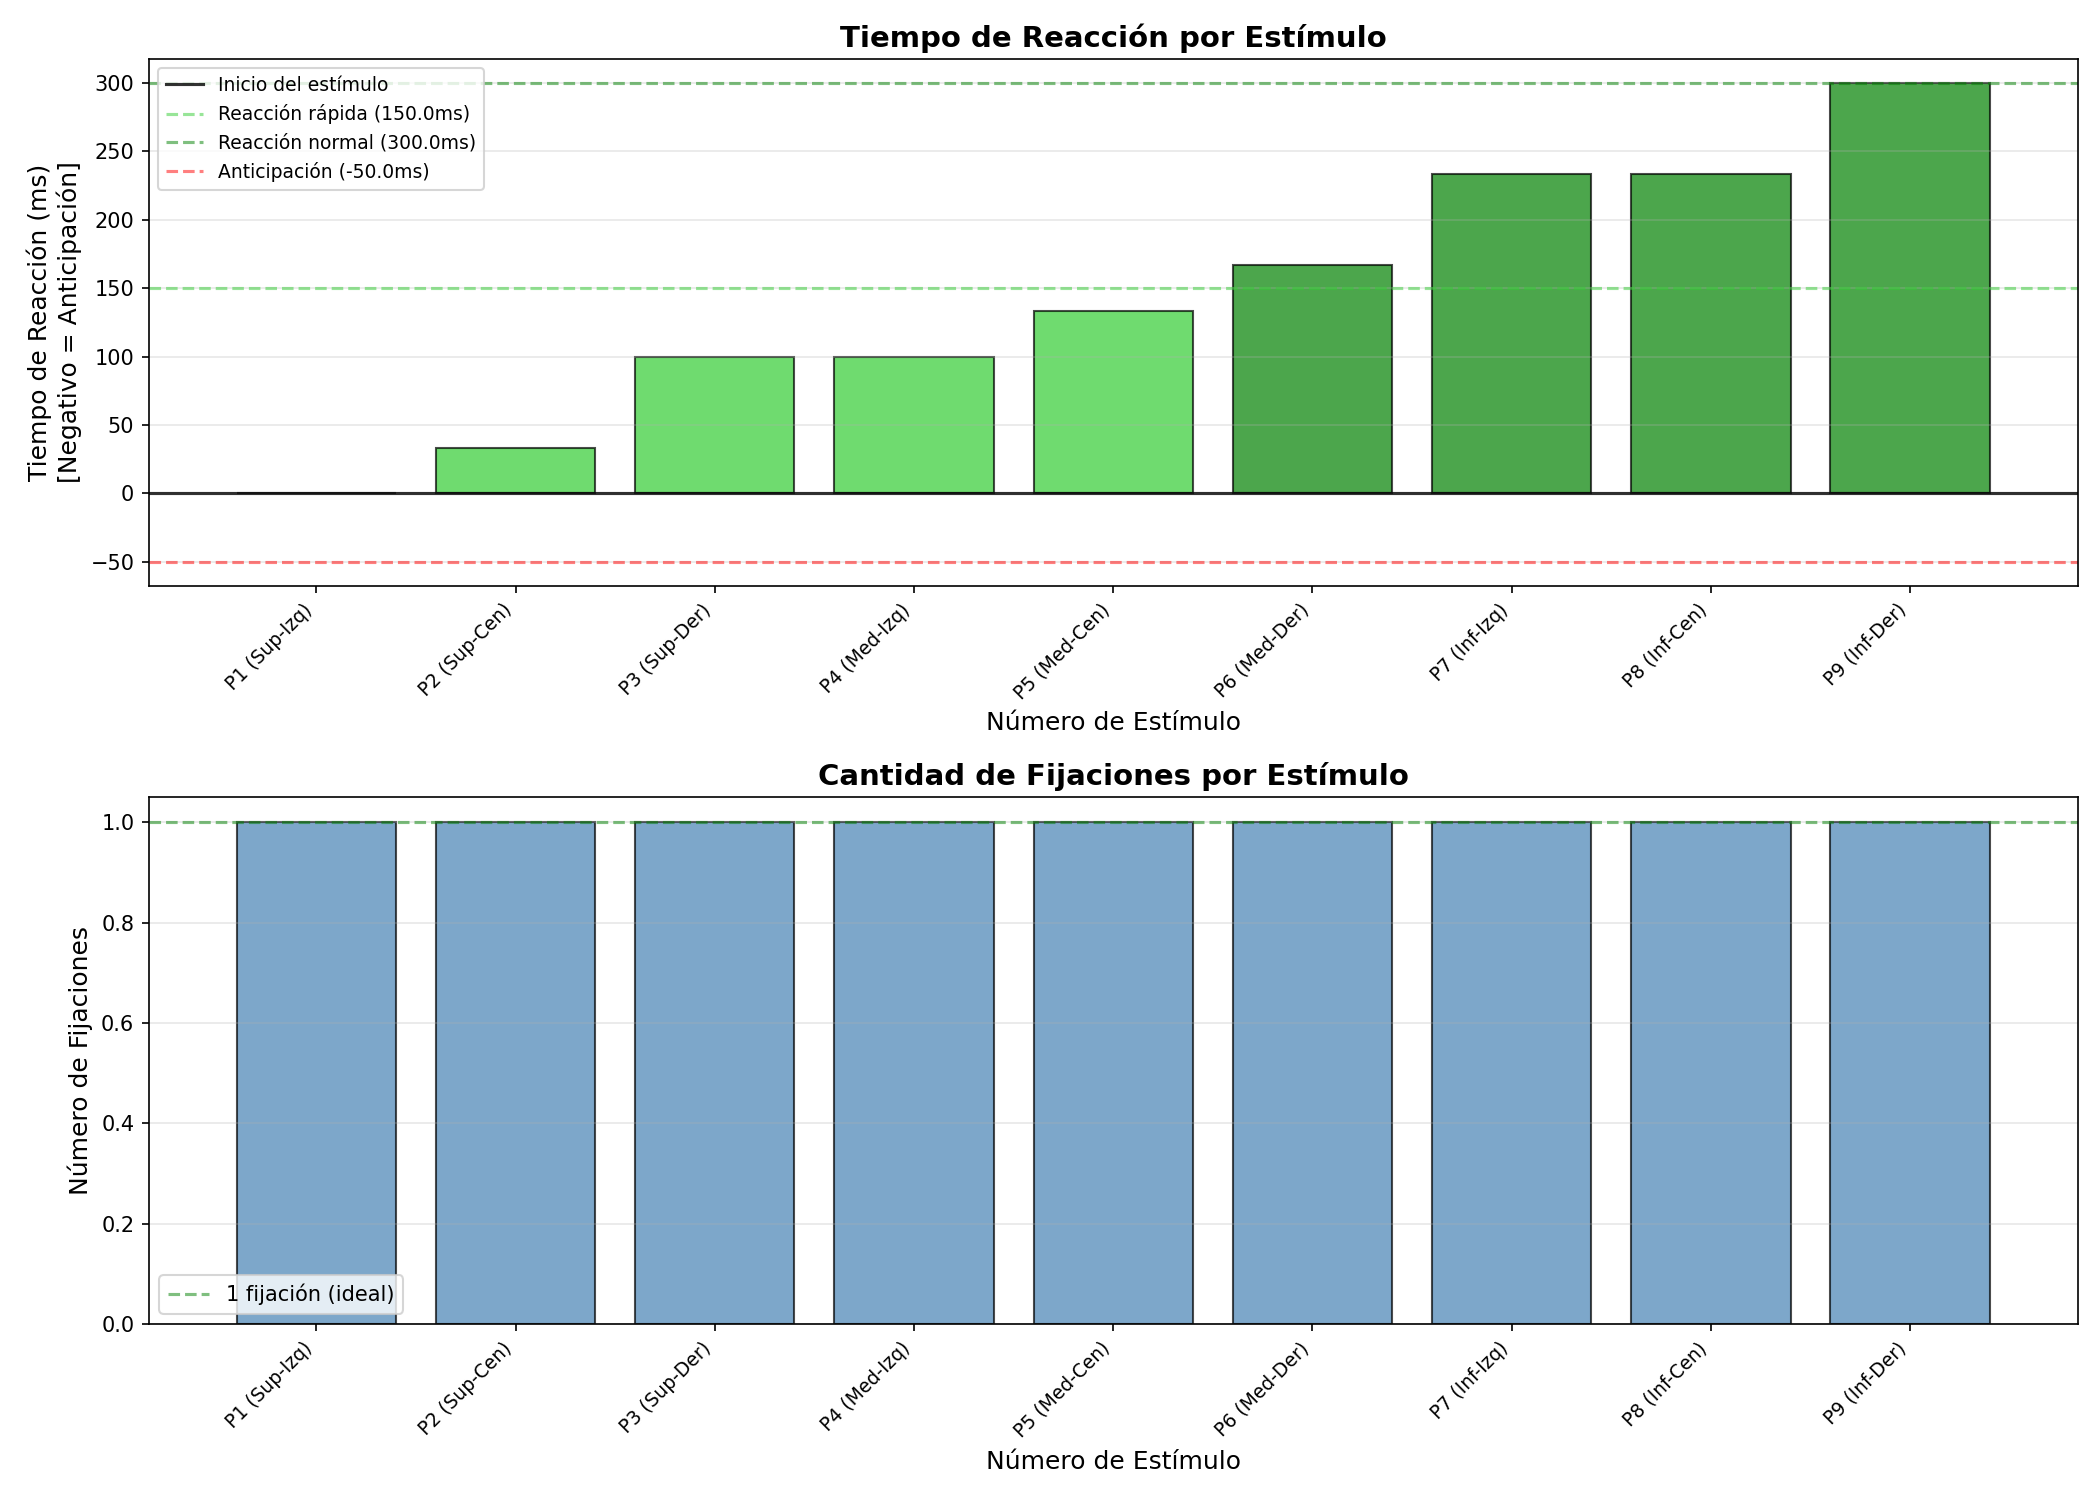
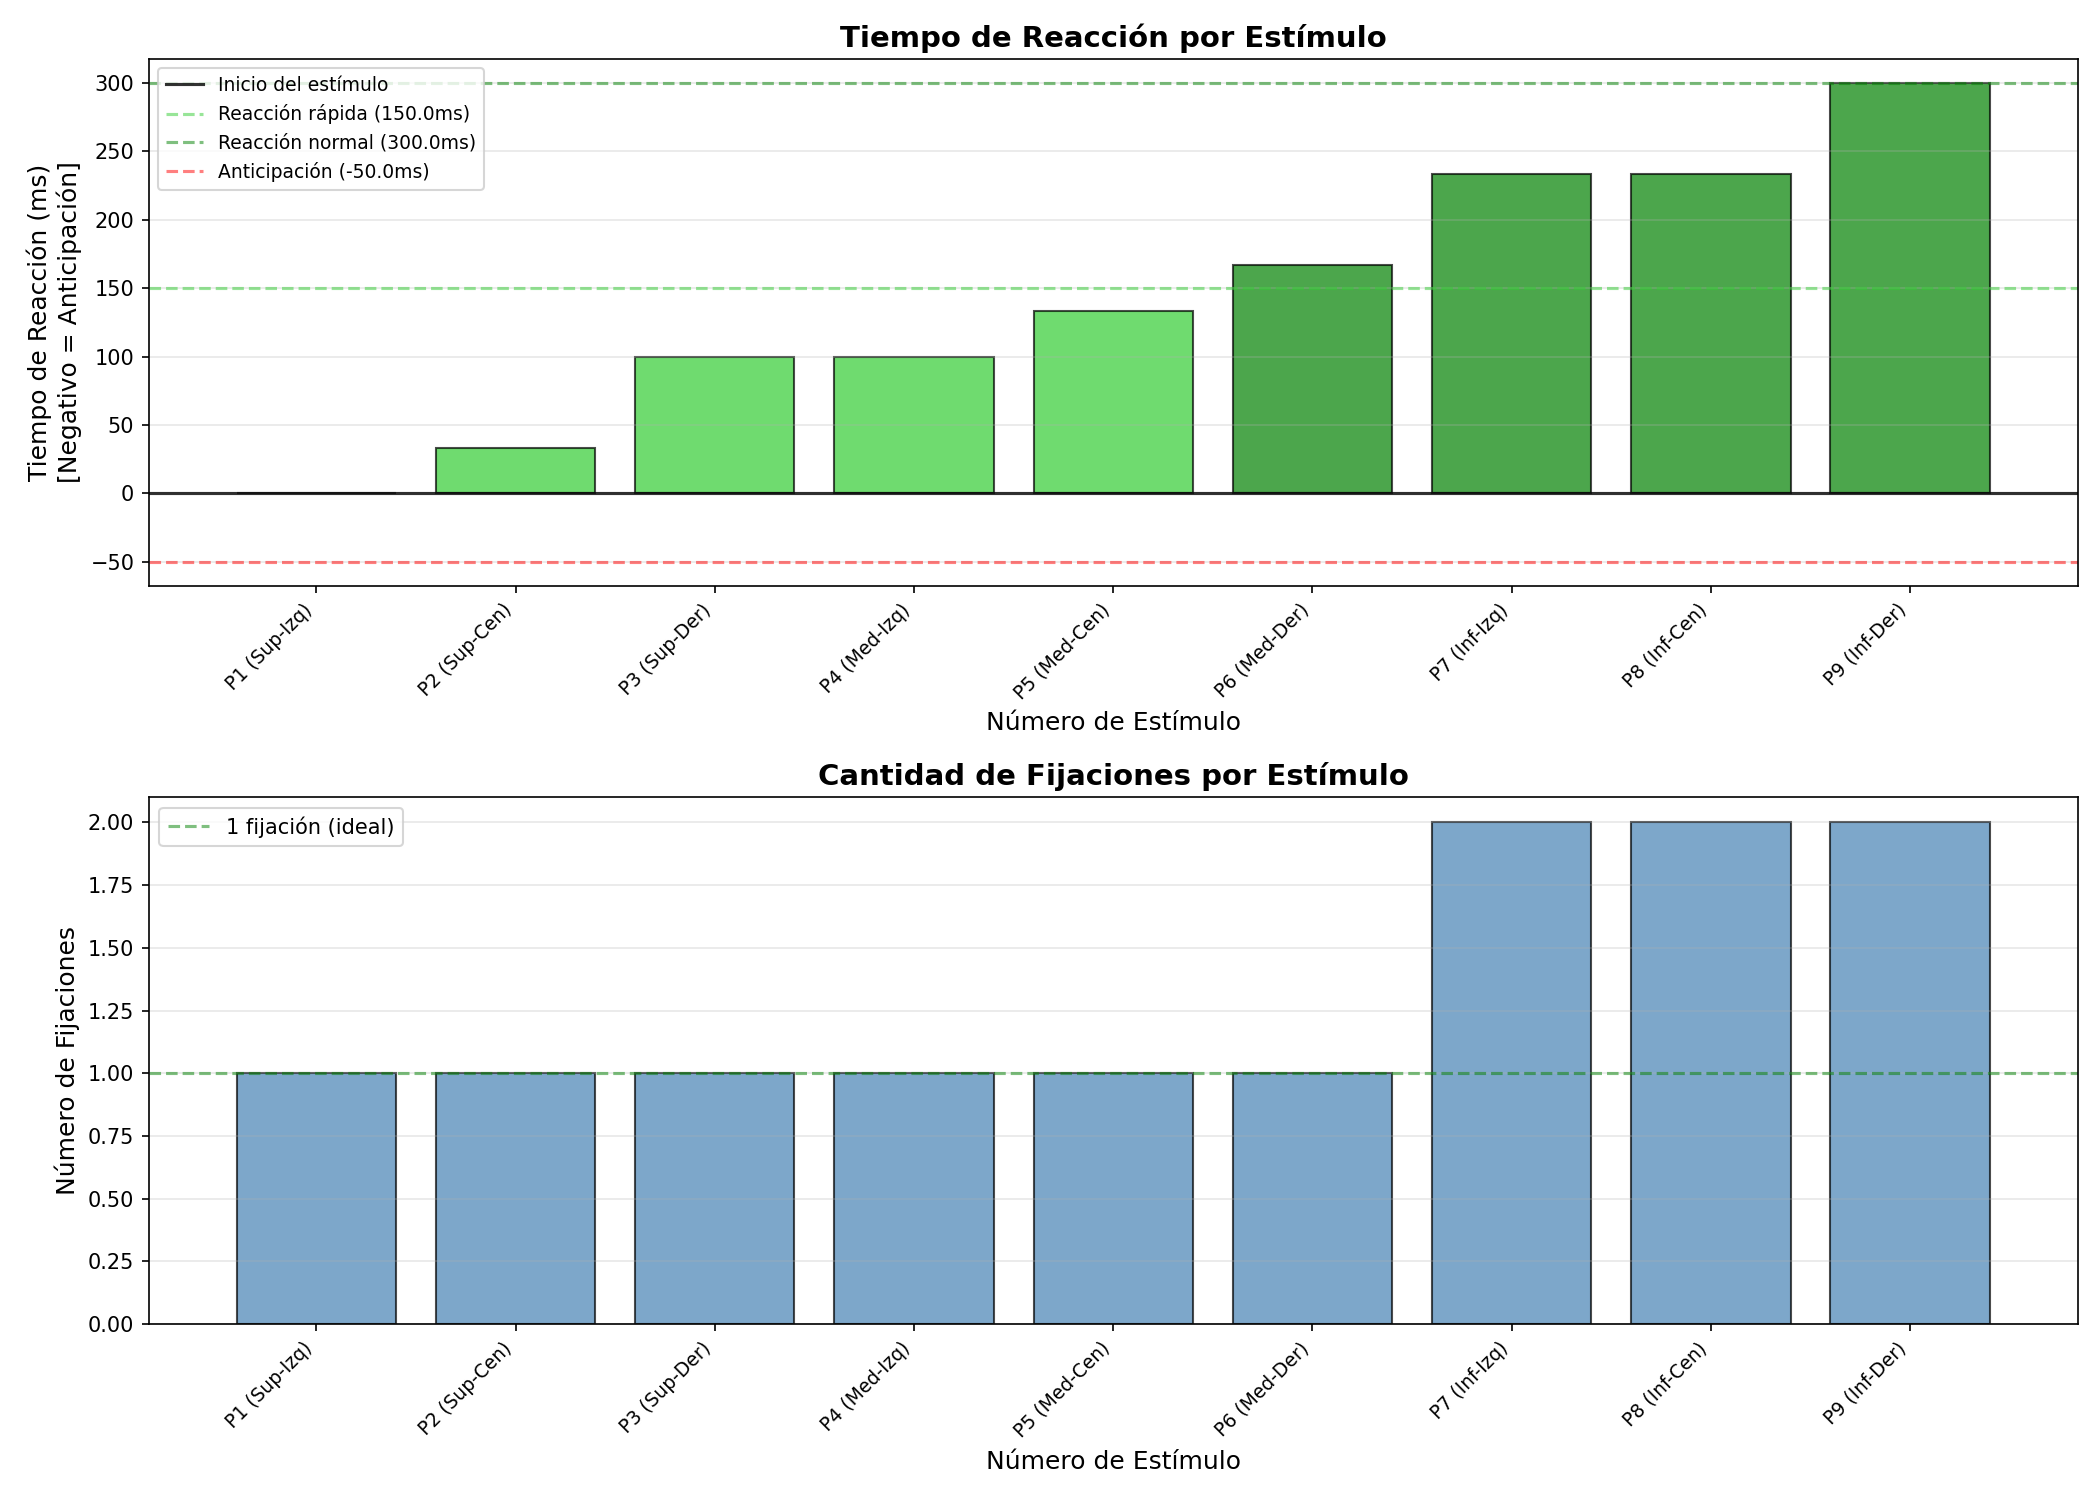
mejoras

diff --git a/Analizar_Data/tiempo_reaccion.py b/Analizar_Data/tiempo_reaccion.py
@@ -18,9 +18,9 @@ VENTANA_BUSQUEDA_ATRAS_MS = 300.0      # Buscar fijación hasta 300ms ANTES del 
 OFFSET_MS = 500.0  # El mismo offset usado en el análisis original
 
 # Umbrales de clasificación
-UMBRAL_ANTICIPACION_MS = -50.0    # Menos de -50ms = anticipación clara
-UMBRAL_REACCION_RAPIDA_MS = 150.0 # 0-150ms = reacción rápida
-UMBRAL_REACCION_NORMAL_MS = 300.0 # 150-300ms = reacción normal
+UMBRAL_ANTICIPACION_MS = -50.0     # Menos de -50ms = anticipación clara
+UMBRAL_REACCION_RAPIDA_MS = 150.0  # 0-150ms = reacción rápida
+UMBRAL_REACCION_NORMAL_MS = 300.0  # 150-300ms = reacción normal
 # Mayor a 300ms = reacción lenta
 
 os.makedirs(OUTPUT_DIR, exist_ok=True)
@@ -67,7 +67,7 @@ def get_stimulus_events_exp2(offset_ms=0):
         })
     return eventos_estimulo
 
-# ========== ANÁLISIS DE TIEMPO DE REACCIÓN ==========
+# ========== ANÁLISIS DE TIEMPO DE REACCIÓN (CORREGIDO) ==========
 def analizar_tiempo_reaccion(fijaciones_df, eventos_estimulo, ventana_adelante_ms=1000.0, ventana_atras_ms=300.0):
     """
     Calcula el tiempo de reacción y cuenta fijaciones por cada estímulo.
@@ -81,6 +81,13 @@ def analizar_tiempo_reaccion(fijaciones_df, eventos_estimulo, ventana_adelante_m
     """
     resultados = []
     
+    # === INICIO DE LA CORRECCIÓN ===
+    # Copiamos el DF y calculamos 'end_time_ms' para CADA fijación.
+    # Esto es crucial para detectar el solapamiento (overlap).
+    fijaciones_df_con_fin = fijaciones_df.copy()
+    fijaciones_df_con_fin['end_time_ms'] = fijaciones_df_con_fin['start_time_ms'] + fijaciones_df_con_fin['duration_ms']
+    # === FIN DE LA CORRECCIÓN ===
+
     for idx, estimulo in enumerate(eventos_estimulo):
         stim_start = estimulo['start_time_ms']
         stim_end = estimulo['end_time_ms']
@@ -91,19 +98,23 @@ def analizar_tiempo_reaccion(fijaciones_df, eventos_estimulo, ventana_adelante_m
         ventana_fin = stim_start + ventana_adelante_ms  # Margen hacia adelante
         
         # Buscar la fijación más cercana al inicio del estímulo (puede ser antes o después)
-        fijaciones_ventana = fijaciones_df[
-            (fijaciones_df['start_time_ms'] >= ventana_inicio) & 
-            (fijaciones_df['start_time_ms'] <= ventana_fin)
+        # Usamos el DF con 'end_time_ms' (fijaciones_df_con_fin)
+        fijaciones_ventana = fijaciones_df_con_fin[
+            (fijaciones_df_con_fin['start_time_ms'] >= ventana_inicio) & 
+            (fijaciones_df_con_fin['start_time_ms'] <= ventana_fin)
         ].copy()
         
         # Calcular distancia al inicio del estímulo
         fijaciones_ventana['distancia_ms'] = fijaciones_ventana['start_time_ms'] - stim_start
         
-        # Contar fijaciones durante TODO el período del estímulo (solo las que están dentro)
-        fijaciones_durante_estimulo = fijaciones_df[
-            (fijaciones_df['start_time_ms'] >= stim_start) & 
-            (fijaciones_df['start_time_ms'] < stim_end)
+        # === INICIO DE LA CORRECCIÓN ===
+        # Contar fijaciones que se SOLAPAN con el período del estímulo
+        # Lógica de solapamiento: (inicio_fij < fin_estim) Y (fin_fij > inicio_estim)
+        fijaciones_durante_estimulo = fijaciones_df_con_fin[
+            (fijaciones_df_con_fin['start_time_ms'] < stim_end) & 
+            (fijaciones_df_con_fin['end_time_ms'] > stim_start)
         ]
+        # === FIN DE LA CORRECCIÓN ===
         
         num_fijaciones = len(fijaciones_durante_estimulo)
         
@@ -153,6 +164,7 @@ def analizar_tiempo_reaccion(fijaciones_df, eventos_estimulo, ventana_adelante_m
         })
     
     return pd.DataFrame(resultados)
+
 
 # ========== VISUALIZACIONES ==========
 def graficar_tiempos_reaccion(resultados_df, output_file):
@@ -458,7 +470,7 @@ def main():
         # Estadísticas globales
         valid_global = df_consolidado.dropna(subset=['tiempo_reaccion_ms'])
         if not valid_global.empty:
-            print(f"\n📊 ESTADÍSTICAS GLOBALES (todos los archivos):")
+            print(f"\n📊 ESTADÍÍSTICAS GLOBALES (todos los archivos):")
             print(f"   Tiempo de reacción promedio global: {valid_global['tiempo_reaccion_ms'].mean():.1f} ms")
             print(f"   Mediana global: {valid_global['tiempo_reaccion_ms'].median():.1f} ms")
             print(f"   Desviación estándar global: {valid_global['tiempo_reaccion_ms'].std():.1f} ms")
